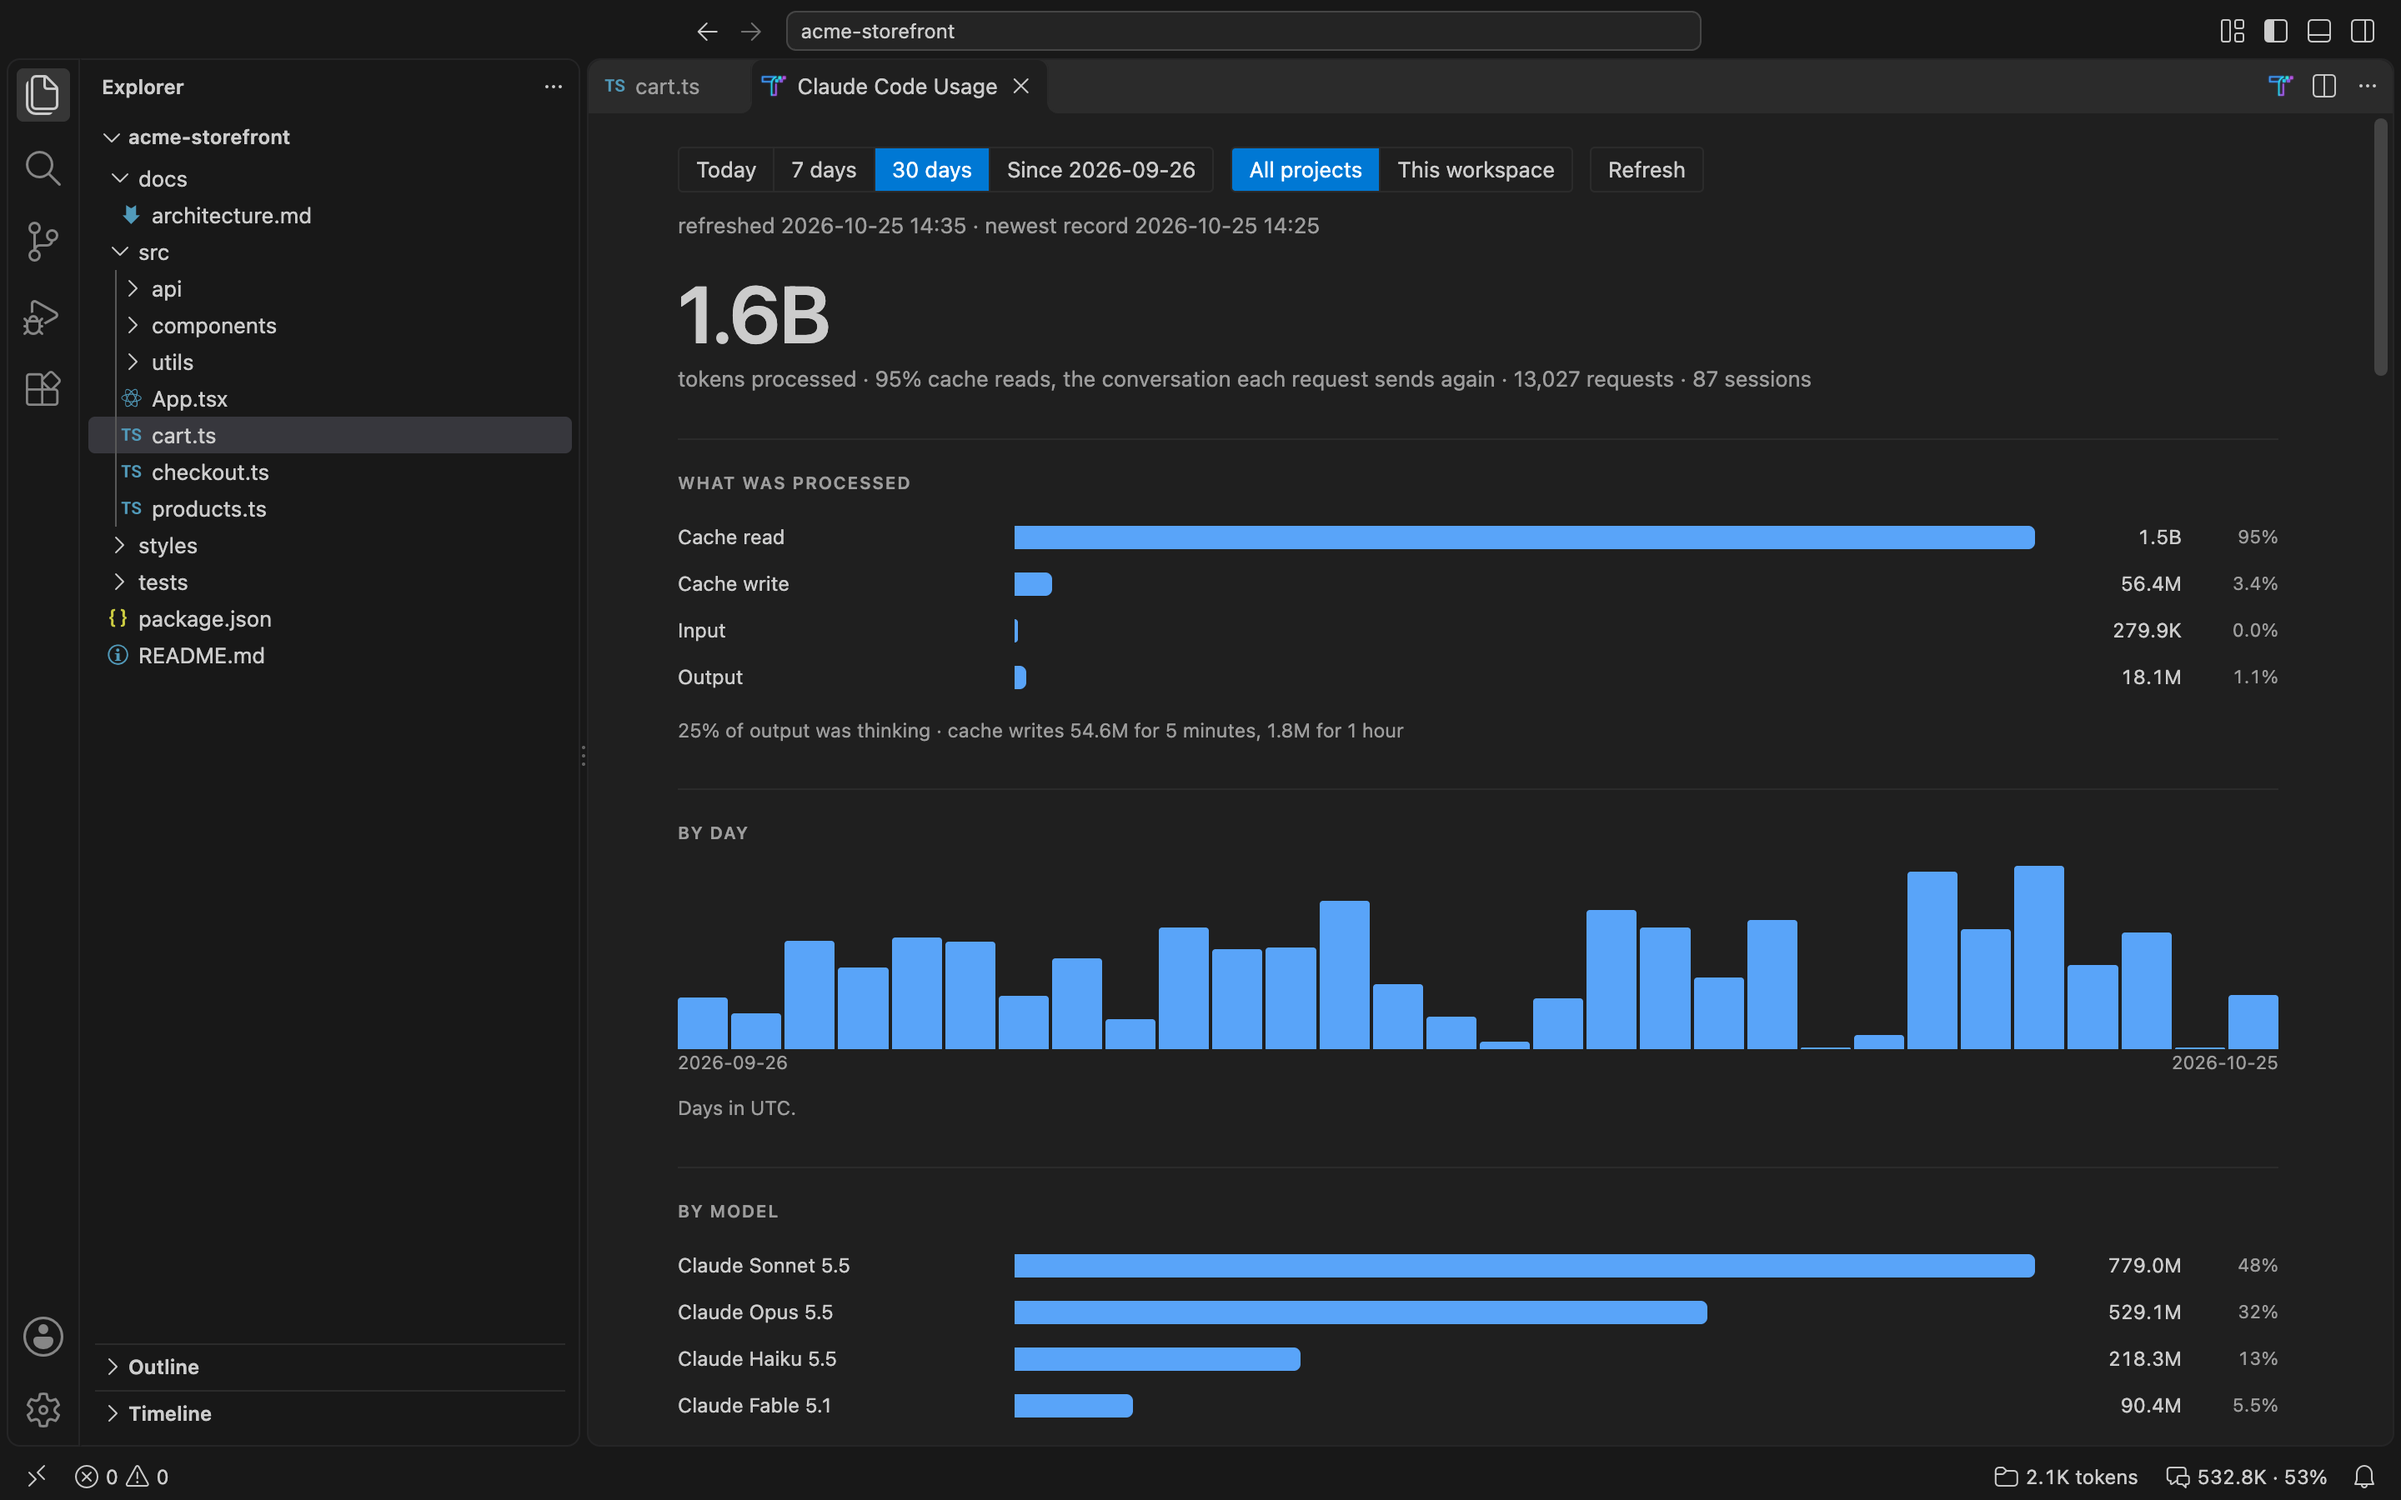
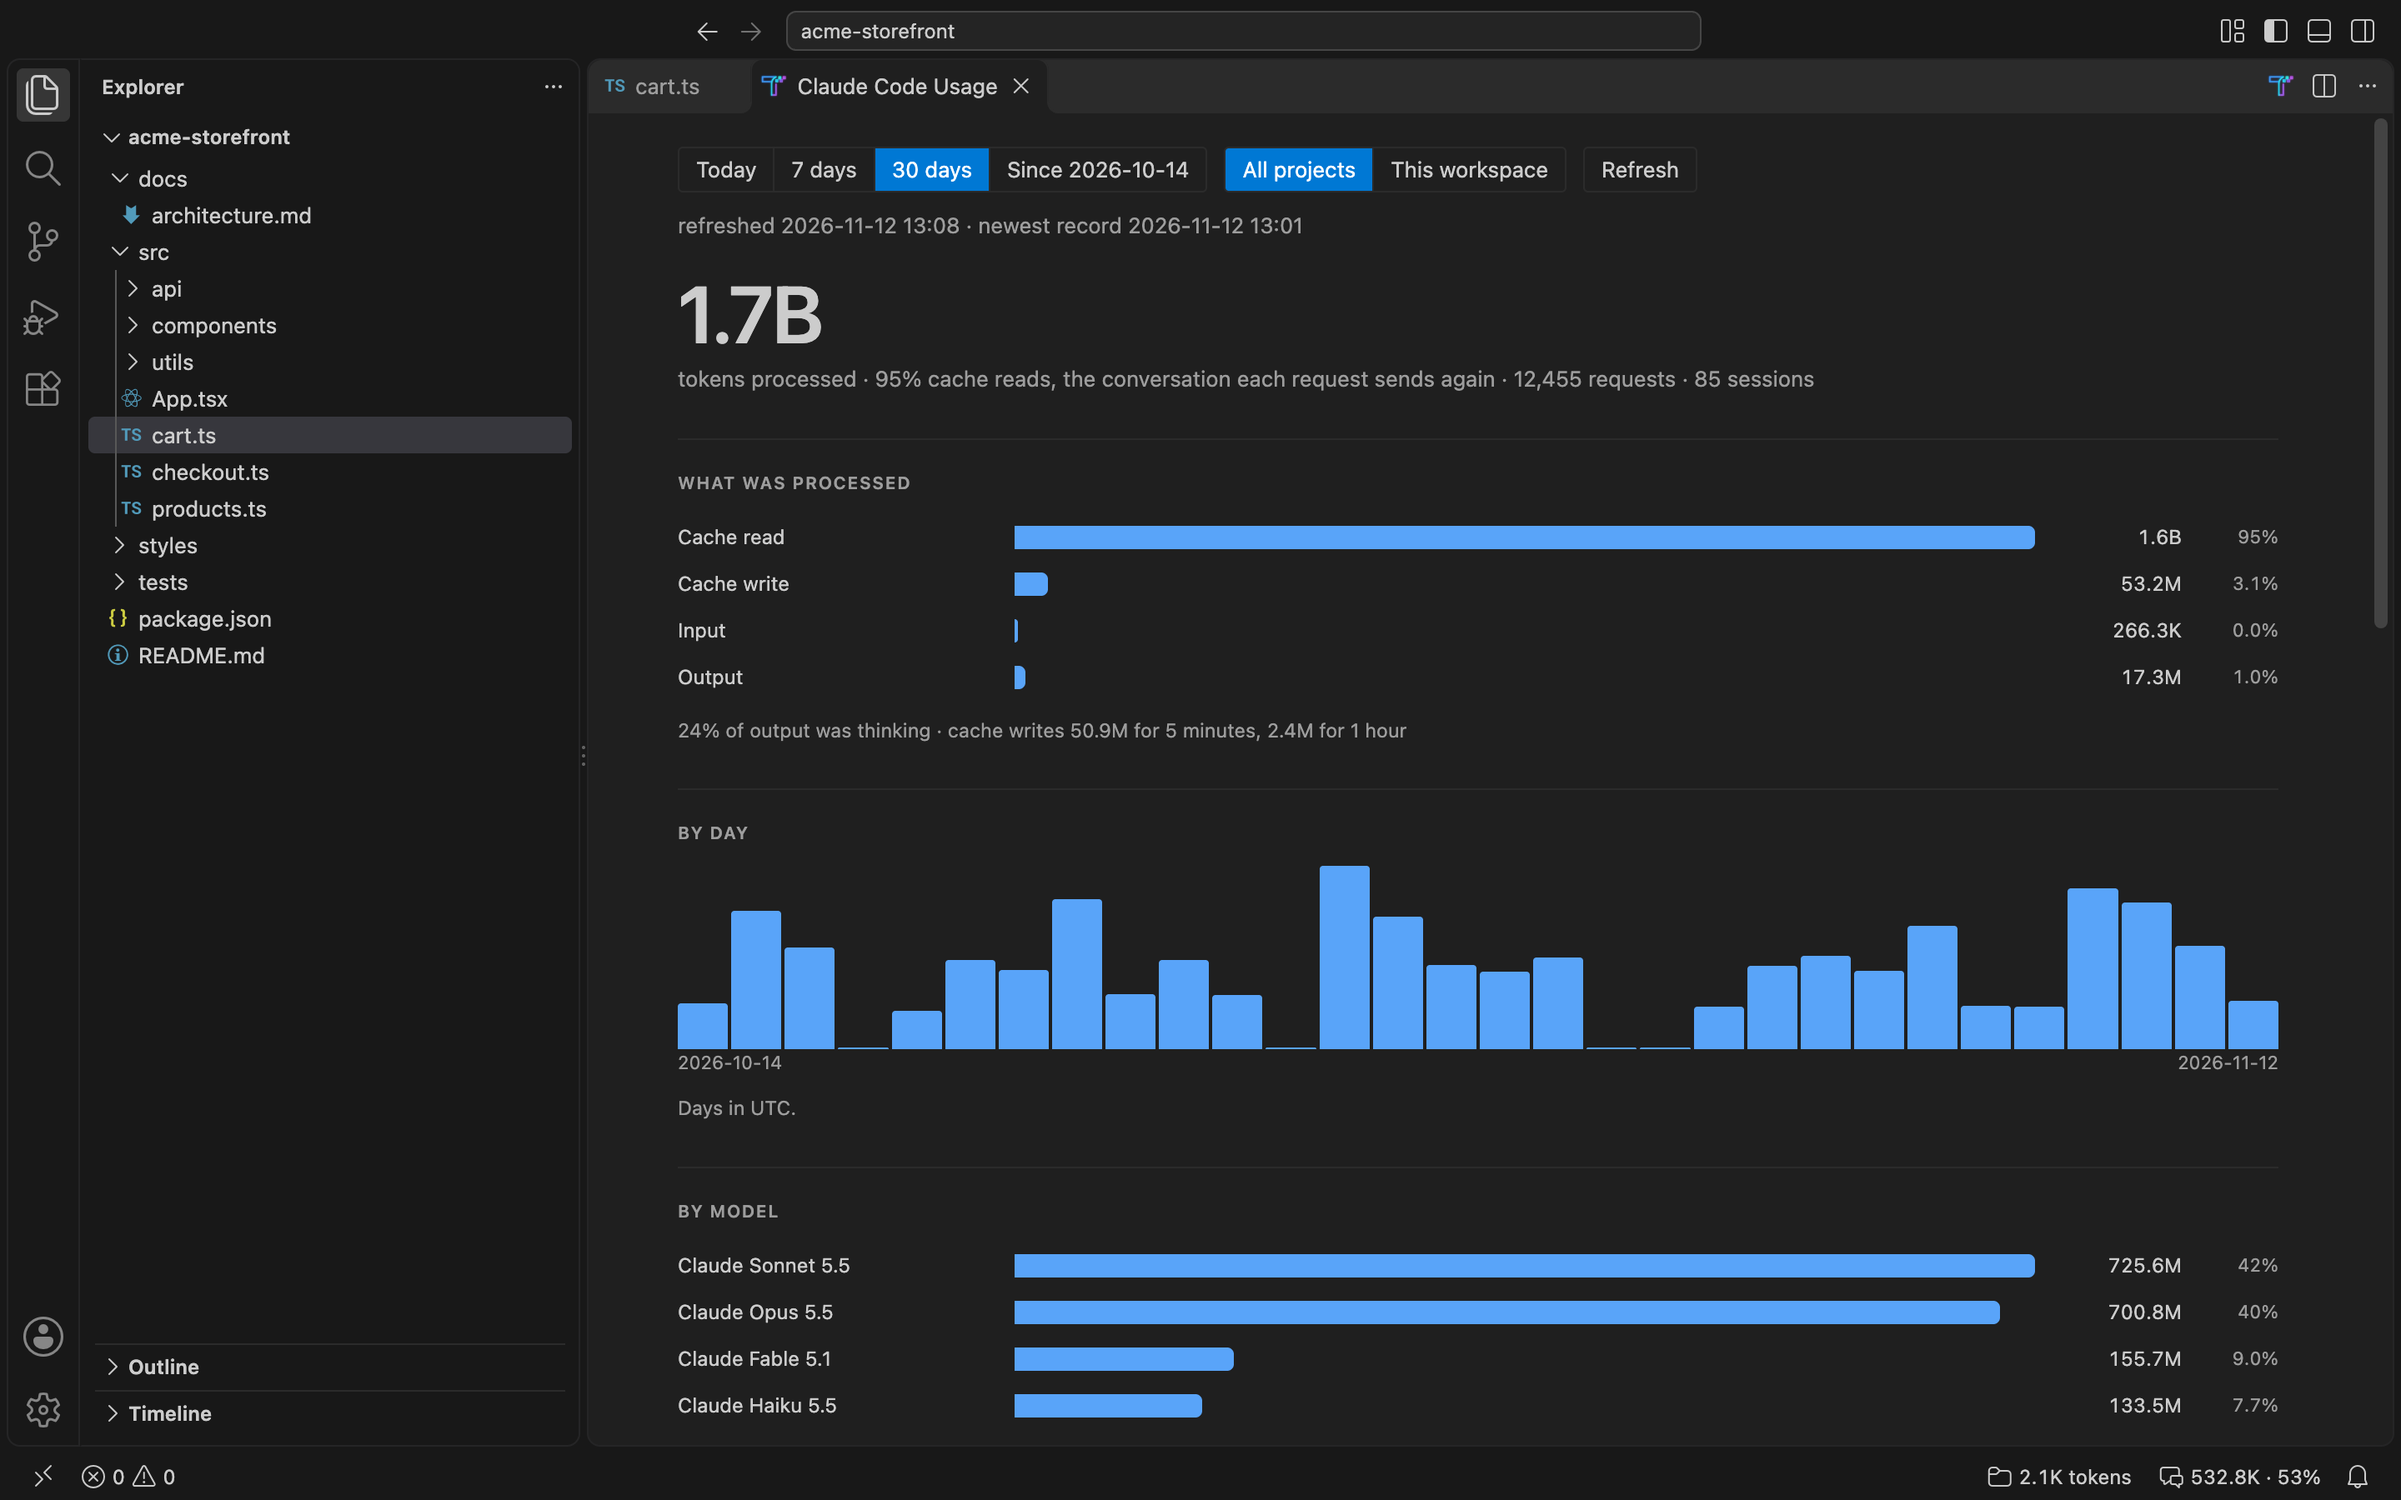
docs: the README's images and GIF, as 2.3.0 shows them
Made again by scripts/screenshots on VS Code 1.146.0, from a demo home
dated today: the sessions' pages were checked in the editor's webview
before anything was captured, the panel is back at its top for the
stills, and the GIF gains a frame of the sessions a page on, with their
active time. The usage panel's alt text gives the figures it now shows:
1.7B tokens, 12,455 requests and 85 sessions.

diff --git a/README.md b/README.md
@@ -178,7 +178,7 @@ history starts, for all projects or for this workspace:
 
 <picture>
   <source media="(prefers-color-scheme: light)" srcset="https://raw.githubusercontent.com/matteo-teodori/llm-tokenizer/main/docs/images/usage-panel-light.png">
-  <img src="https://raw.githubusercontent.com/matteo-teodori/llm-tokenizer/main/docs/images/usage-panel-dark.png" alt="Claude Code usage for 30 days: 1.6B tokens processed, 95% of them cache reads, in 13,027 requests and 87 sessions, split into cache reads, cache writes, input and output, by day and by model">
+  <img src="https://raw.githubusercontent.com/matteo-teodori/llm-tokenizer/main/docs/images/usage-panel-dark.png" alt="Claude Code usage for 30 days: 1.7B tokens processed, 95% of them cache reads, in 12,455 requests and 85 sessions, split into cache reads, cache writes, input and output, by day and by model">
 </picture>
 
 *Processed* is everything a request sent or received: input, cache writes,
